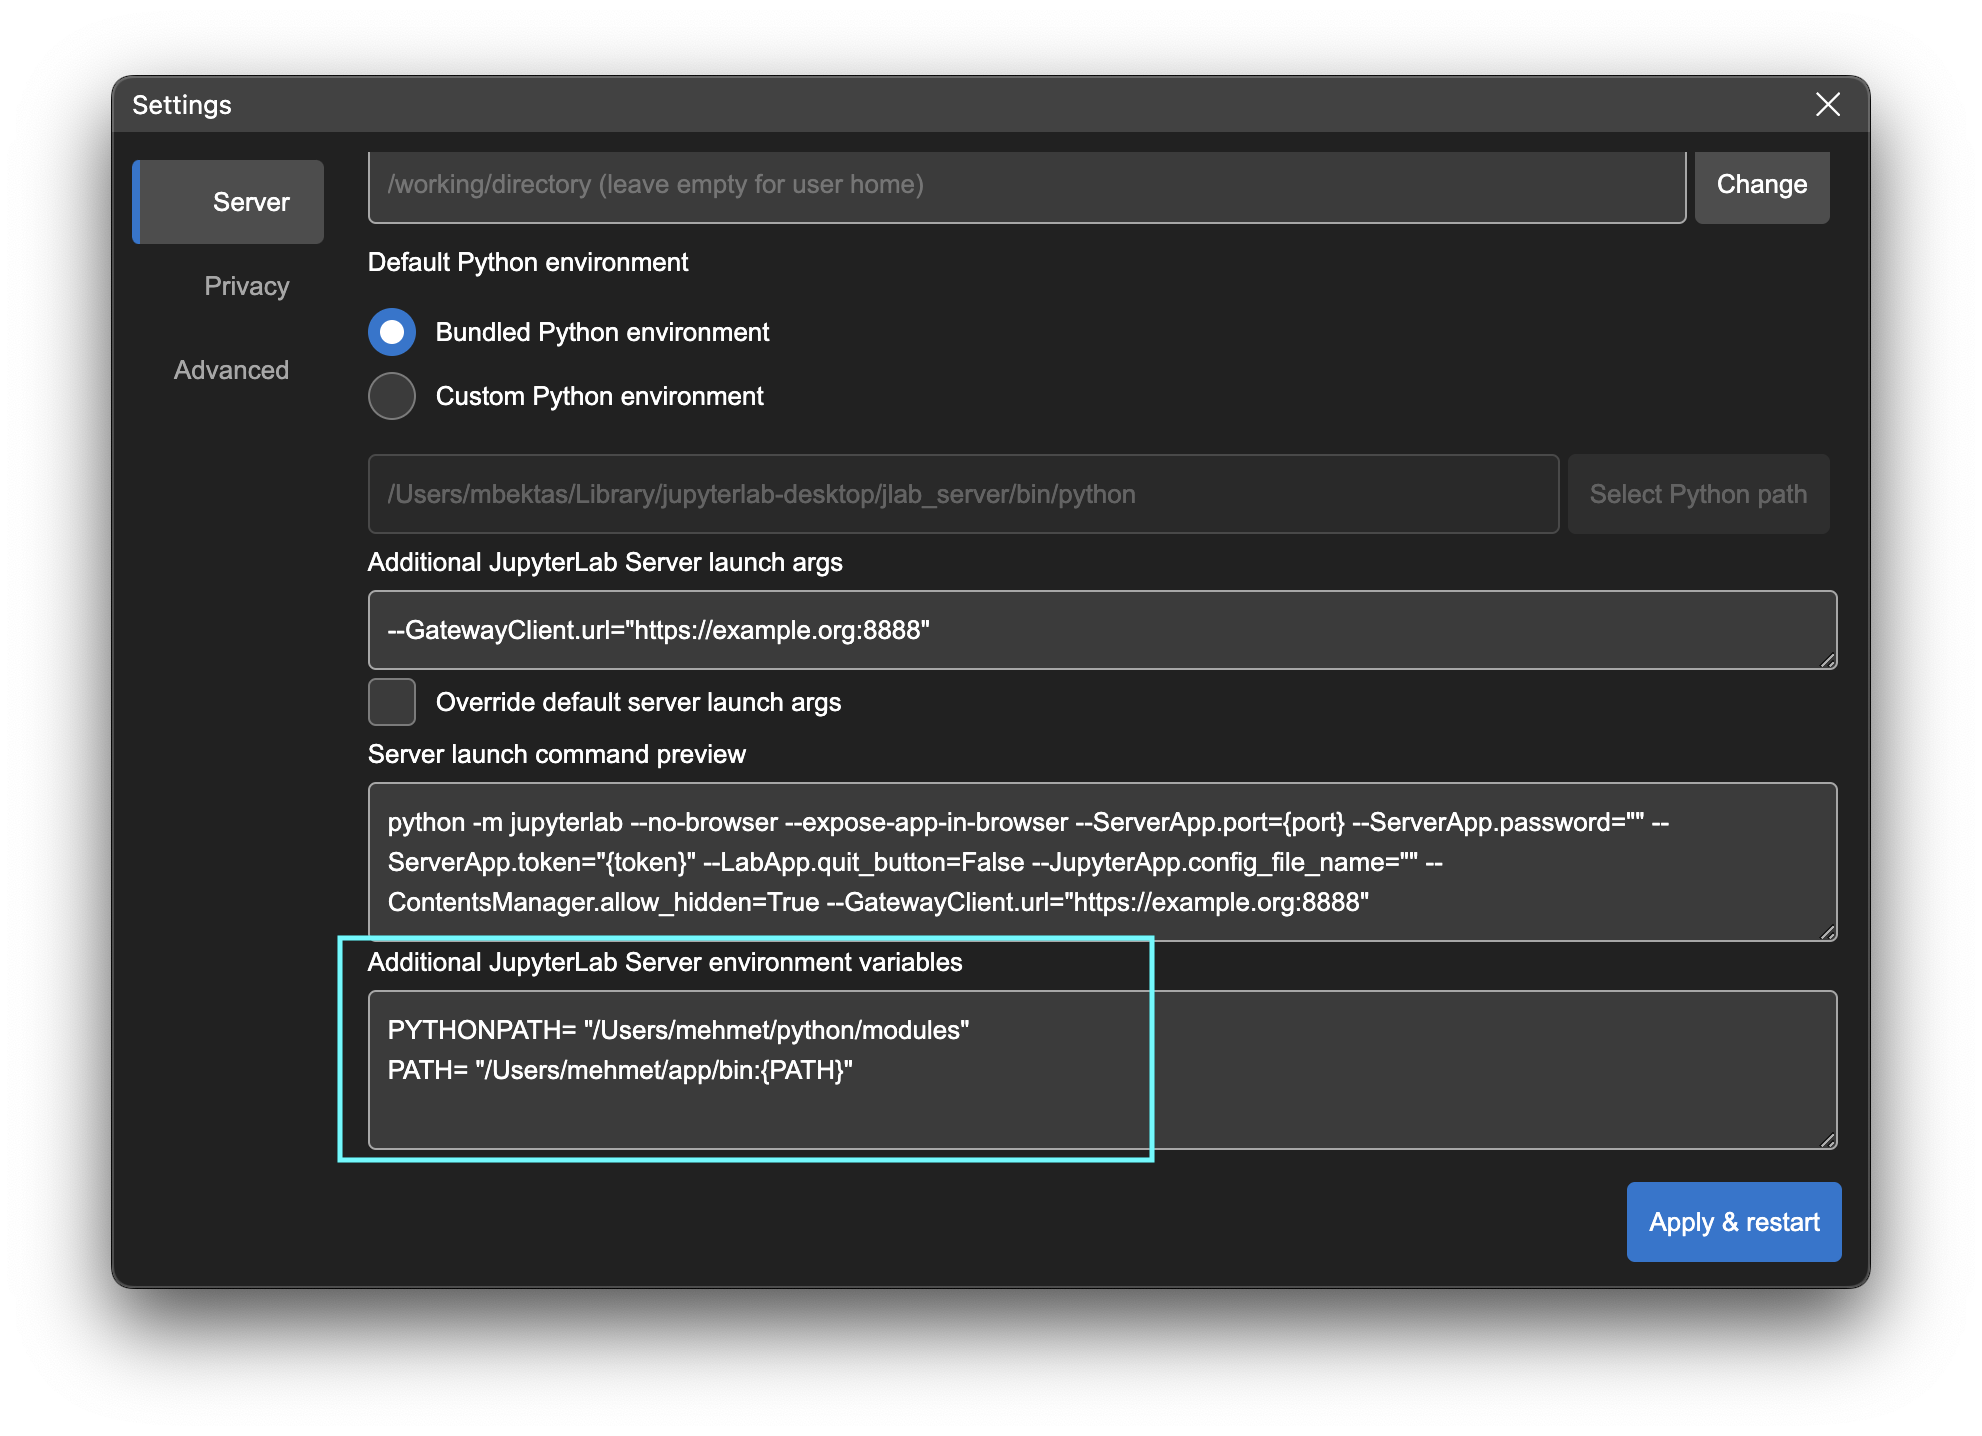
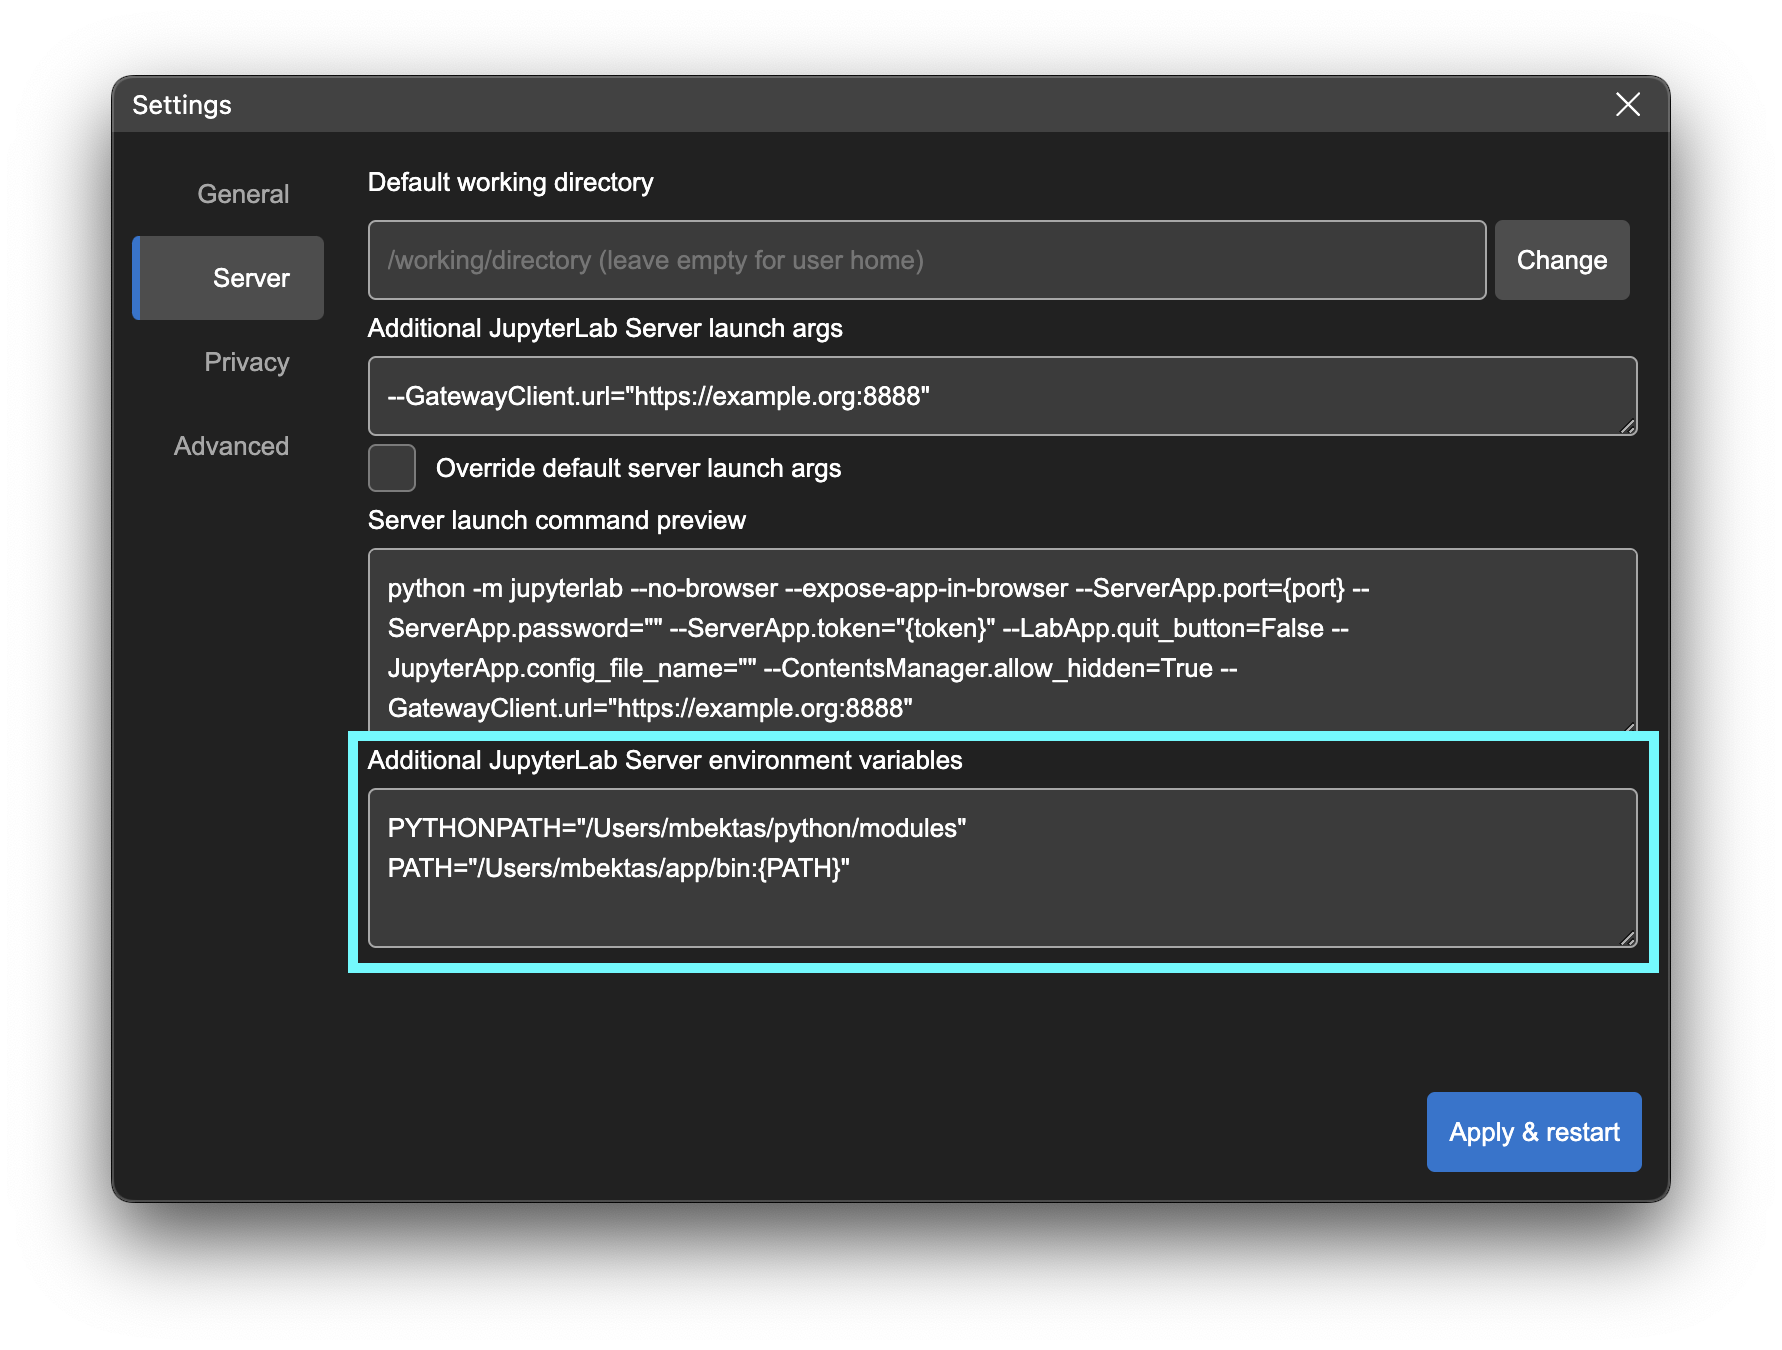
update docs

diff --git a/user-guide.md b/user-guide.md
@@ -20,7 +20,7 @@ JLD supports multiple session windows. Each session window has a corresponding J
 
 # Changing the Python Environment used by JupyterLab Desktop
 
-JupyterLab Desktop comes with a bundled Python environment which has the essential Python packages for scientific computing and data science workflows. For more advanced use cases and specific needs, you can set the Python environment used by JupyterLab Desktop to another `conda`, `venv`, or `pyenv` virtual environment available on your computer.
+JupyterLab Desktop comes with a bundled Python environment which has the essential Python packages for scientific computing and data science workflows. For more advanced use cases and specific needs, you can set the Python environment used by JupyterLab Desktop to another `conda`, `venv`, or `pyenv` virtual environment available on your computer. The environments on your computer are discovered by JLD on app launch. JLD provides UI and CLI features to let you create new Python environments that are compatible with the app. See [Python environment management](python-env-management.md) for more information.
 
 Active Python environment info is shown on the title bar. If you hover on it you will see the details of the environment such as its path and certain package versions, along with the currently running JupyterLab server instance information.
 
@@ -30,11 +30,11 @@ JupyterLab Desktop allows you to change the default Python environment used for 
 
 ### To change the default Python environment:
 
-- Open the settings dialog from the to right menu and go to `Server` tab.
+- Open the Manage Python environments dialog from the to right menu and go to the `Settings` tab.
 
-<img src="media/server-settings-custom-python-env.png" alt="Custom Python environment" width=800 />
+<img src="media/manage-envs-settings.png" alt="Python environment management settings" width=800 />
 
-- In Server tab, select `Custom Python environment` option and either enter the path to Python executable you would like to use or click `Select Python path` to browse for it.
+- In Settings tab, select `Use custom Python environment` option and either enter the path to Python executable you would like to use or click `Select path` to browse for it.
 
 - Environment selection will be applied at the next launch of the application
 
@@ -44,15 +44,11 @@ JupyterLab Desktop allows you to change the default Python environment used for 
 
 <img src="media/python-env-select.png" alt="Python environment popup" width=700 />
 
-- You can choose from one of the Python paths listed on the menu or click the browse button on top right to browse and select any other Python paths existing on your computer.
-
-- If you are browsing for a Python path, select the Python executable (`python.exe` on Windows and `python` on macOS & Linux) of the custom environment you would like to use. Python executable can be found at the root directory of the virtual environment on Windows and in the `bin` directory of the environment on macOS & Linux.
-
-- You can also paste a Python path from the clipboard into the input field and hit `Enter` key to select it.
+- You can choose from one of the Python paths listed on the menu. You can type in the input field to filter the Python paths in the menu. See [Python environment management](python-env-management.md) for information on adding or creating new Python environments.
 
 - Once you select a new environment, JupyterLab server will be restarted using the new environment without restarting the application.
 
-- Another way to set project specific Python environment is by using the CLI. You can set the `--python-path` CLI parameter (e.g. `jlab --python-path /Users/username/custom_env/bin/python .`) and then the application will launch in the specified project directory with the Python environment set. The setting will be saved to project settings and restored at next launch via CLI or UI.
+- Another way to set project specific Python environment is by using the CLI. You can set the `--python-path` CLI parameter (e.g. `jlab --python-path /Users/username/custom_env/bin/python .`) and then the application will launch in the specified project directory with the Python environment set.
 
 Python environment selections are saved in user settings or project settings and restored at launch. See the [Configuration and data files](#Configuration-and-data-files) section for more information about the settings storage. Python environment is stored with `pythonPath` key in those files. Setting the value to empty string or removing the key will reset the change.
 
@@ -251,7 +247,7 @@ rm -rf ~/Library/Logs/jupyterlab-desktop
 
 On Windows, JupyterLab Desktop is installed in two parts, one for the python environment and another for the application itself. Go to `Windows Apps & Features` dialog using `Start Menu` -> `Settings` -> `Apps` and make sure to uninstall the components in the following order:
 
-- First uninstall JupyterLab Desktop python environment
+- First uninstall JupyterLab Desktop python environment (if applicable, for version v4.0.1-1 and older)
 
 <img src="media/uninstall-windows-python-environment.png" alt="Uninstall Python environment" height=200 />
 

diff --git a/python-env-management.md b/python-env-management.md
@@ -1,3 +1,34 @@
+# Python environment management
+
+JupyterLab Desktop (JLD) lets you manage Python environments on your system with a simple and user-friendly UI. You can launch the Python environment management dialog by using the `Hamburger Menu` on top right -> `Manage Python environments` or by clicking the gear icon on session environment selection popup. (Note: You can also manage Python environments usin JLD CLI (jlab), which comes with additional environment create options. See [this section](#python-environment-management-using-cli) for CLI commands to manage environments.)
+
+<img src="media/env-select-popup-gear-hilited.png" alt="Environment select popup gear" width=700 />
+<img src="media/manage-python-envs-menu.png" alt="Manage Python environments menu" width=300 />
+
+In this dialog Python environments on your system, discovered by the app will be listed. You can create new environments, add existing environments and configure Python environment settings on this dialog.
+
+<img src="media/manage-envs-dialog.png" alt="Manage Python environments dialog" width=850 />
+
+`Environments` tab lists your existing environments that are compatible with JLD. You can launch a Terminal with the selected environment activated, browse the environment installation directory and access to other actions on the environment by using the environment menu on the right of each environment row. Environments installed by the app and which are currently not in use, can be deleted by using the Delete menu item in this environment menu.
+
+If an environment on your system was not discovered, you can still add it using the `Add existing` button. Simply select the Python executable (`python.exe` on Windows and `python` on macOS & Linux) of the custom environment you would like to use. Python executable can be found at the root directory of the virtual environment on Windows and in the `bin` directory of the environment on macOS & Linux. JLD will validate the environment for compatibility. Note that `jupyterlab` Python package must be installed in a Python environment to be compatible with JLD.
+
+You can create new Python environments in the `Create new` tab. New environments can be created by using the bundled environment installer (`Copy of the budled environment` option) or by downloading packages from registry (`New environment` option).
+
+When creating the copy of the bundled environment, just enter a name for your environment and click the Create button. Bundled environment will be installed into the directory shown on the dialog.
+
+<img src="media/manage-envs-create-from-bundled.png" alt="Create new environment using bundled installer" width=800 />
+
+When creating new environments from registry you can choose the type of the environment (conda or venv) and enter additional packages to install. Once you click the Create button, packages will be downloaded from the registry based on your selections and installed. You can see the progress of the installation by clicking the `Show output` button.
+
+<img src="media/manage-envs-create-from-registry.png" alt="Create new environment using registry" width=800 />
+
+Once the installation is finished, newly created environments are automatically added to JLD environment registry, making them ready to use with the app.
+
+You can manage the Python environment settings in the `Settings` tab. Here you can set the default Python environment for JupyterLab Server instances launched by JLD, set the new environment installation directory and other options related to new environment creation and server launch. When there are updates available for bundled environment installation, you will see a notification on this tab as well.
+
+<img src="media/manage-envs-settings.png" alt="Python environment management settings" width=800 />
+
 # Python environment management using CLI
 
 JupyterLab Desktop CLI (`jlab`) provides several commands and options to manage Python environments for use in the application. Below is the list of environment management commands.

diff --git a/troubleshoot.md b/troubleshoot.md
@@ -20,6 +20,8 @@ Below are detailed information on topics which commonly come up in questions and
 - [Detecting if an issue is specific to JupyterLab Desktop or not](#Detecting-if-an-issue-is-specific-to-JupyterLab-Desktop-or-not)
 - [Debugging application launch issues](#Debugging-application-launch-issues)
 - [Reverting to an older version and disabling auto-update](#Reverting-to-an-older-version-and-disabling-auto-update)
+- [`Delete` environment menu item availability in Manage Python environments dialog](#delete-environment-menu-item-availability-in-manage-python-environments-dialog)
+- [Additional resources on JupyterLab Desktop](#additional-resources-on-jupyterlab-desktop)
 
 ## JupyterLab Desktop vs JupyterLab Web Application versions
 
@@ -145,11 +147,11 @@ New Python environment install paths:
 
 Updating JLD application doesn't automatically update the Python environment previously used by the application, for various reasons. However, bundled Python environment installer is updated if the new JLD has a version upgrade other than suffix (`-n`) change. You can compare the versions of JLD application and jupyterlab package versions in the Python environment as described in [versions section above](#jupyterlab-desktop-vs-jupyterlab-web-application-versions).
 
-JLD provides an easy way to update the bundled Python environment installation. Simply go to `Hamburger Menu` -> `Settings` -> `Server` tab. If your bundled Python environment installation is out-dated then you will see a notification and a button to update the installation.
+JLD provides an easy way to update the bundled Python environment installation. Simply go to `Hamburger Menu` -> `Manage Python environments` -> `Settings` tab. If your bundled Python environment installation is out-dated then you will see a notification and a button to update the installation.
 
 <img src="media/bundled-env-update.png" alt="Bundled environment update" width=700 />
 
-You can update the bundled Python environment installation by using the CLI command below as well. It will first remove the existing installation and then reinstall the environment.
+You can update the bundled Python environment installation by using the CLI command below as well. It will first remove the existing installation and then reinstall the environment. Make sure to stop all running JLD instances before running the command.
 
 ```bash
 jlab env create --force
@@ -224,3 +226,15 @@ JupyterLab Desktop automatically downloads and installs new versions on some pla
    ```
 
 3. Install older version of JupyterLab Desktop from the [Releases](https://github.com/jupyterlab/jupyterlab-desktop/releases/) page.
+
+## `Delete` environment menu item availability in Manage Python environments dialog
+
+In Manage Python environments dialog all the environments discovered by JLD are listed. However, only the environments installed by JLD can be deleted from this dialog and if they are not currently in use by a JupyterLab session. That's why some of the environments will not have the `Delete` environment menu available.
+
+## Additional resources on JupyterLab Desktop
+
+This repo contains the most up to date documentation on JupyterLab Desktop. However you can refer to the Jupyter blog posts on JLD for more context and information on the application. Below are the links to the blog posts.
+
+- [Introducing the new JupyterLab Desktop! (02/09/2023)](https://blog.jupyter.org/introducing-the-new-jupyterlab-desktop-bca1982bdb23)
+- [JupyterLab Desktop — 2022 recap (12/13/2022)](https://blog.jupyter.org/jupyterlab-desktop-2022-recap-28bdf00205c6)
+- [JupyterLab Desktop App now available! (09/22/2021)](https://blog.jupyter.org/jupyterlab-desktop-app-now-available-b8b661b17e9a)

diff --git a/README.md b/README.md
@@ -71,8 +71,12 @@ For additional CLI options run `jlab --help` in command line.
 
 JupyterLab Desktop currently supports user-friendly [prebuilt](https://jupyterlab.readthedocs.io/en/stable/extension/extension_dev.html#overview-of-extensions) extensions. Source extensions which require rebuilding are not supported.
 
-### See [user guide](user-guide.md) for configuration options
+### Guides and Help
 
-### See [troubleshooting guide](troubleshoot.md) for troubleshooting issues
+- See [user guide](user-guide.md) for configuration options
 
-### For contributing, see [developer documentation](dev.md)
+- [Python environment management](python-env-management.md) guide for managing Python environments on your system using JupyterLab Desktop
+
+- See [troubleshooting guide](troubleshoot.md) for troubleshooting issues
+
+- For contributing, see [developer documentation](dev.md)
